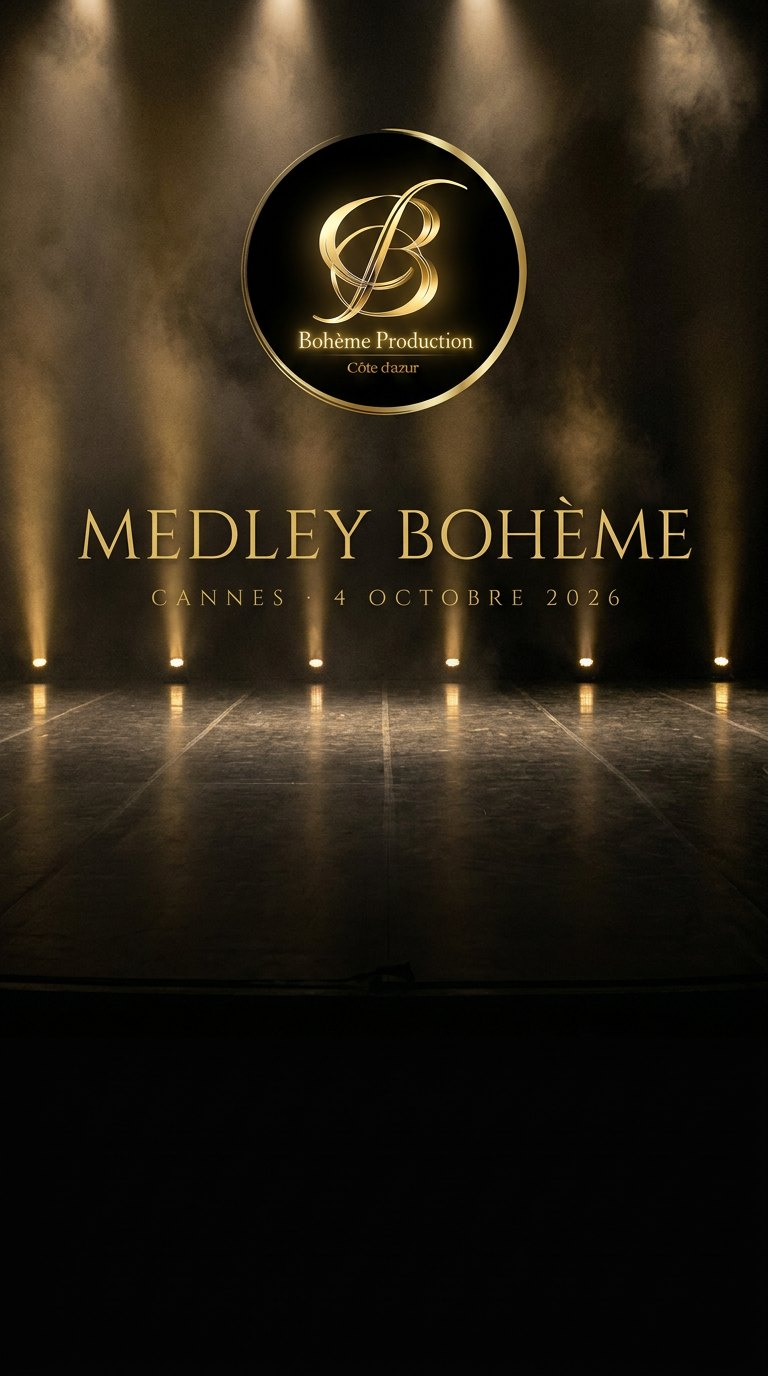
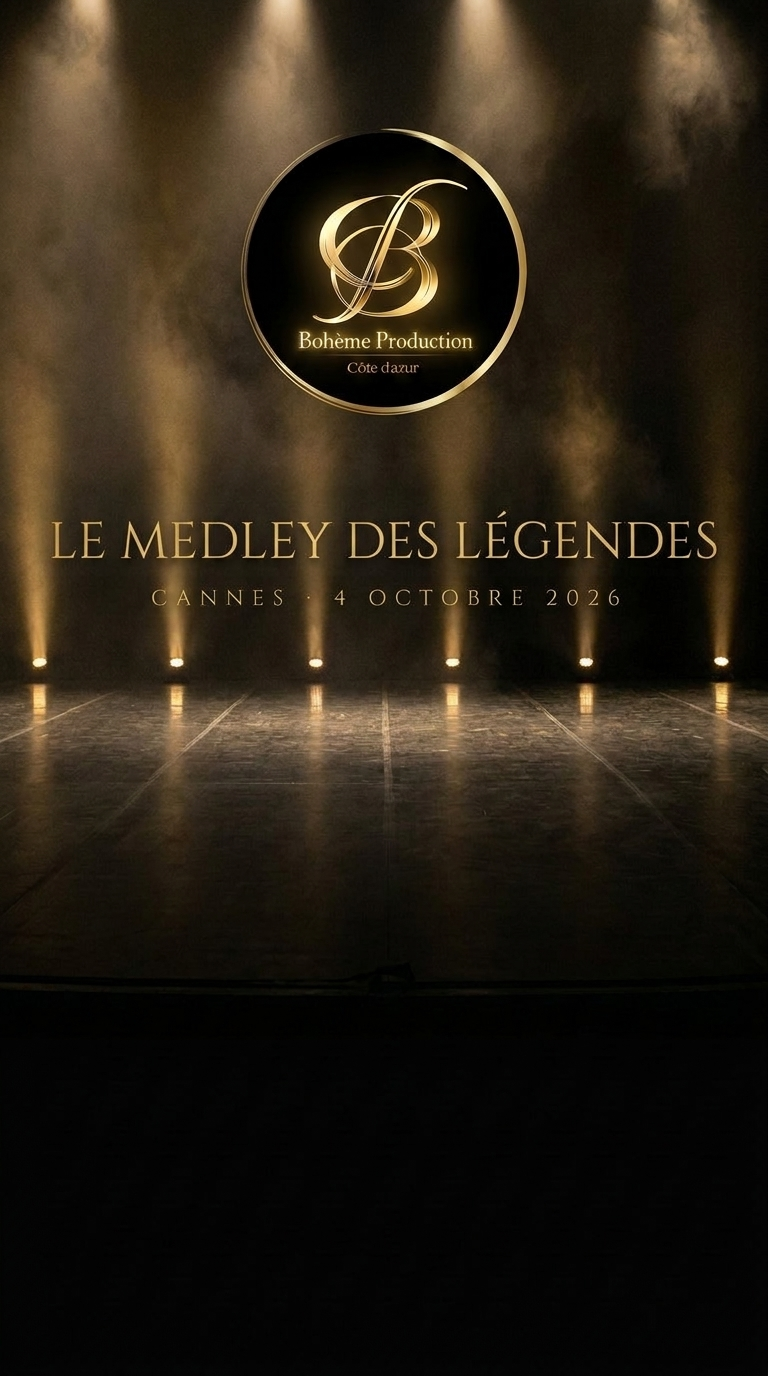
L'image d'ouverture porte enfin « LE MEDLEY DES LEGENDES »
Les deux versions (paysage et verticale) refaites dans Flow avec Nano Banana Pro, a
partir des images existantes : seul le texte grave change, tout le reste est identique
— medaillon, six douches de lumiere, fumee, reflets sur le plancher, cadrage, couleurs.
L'accent du E de LEGENDES est bien la, sur les deux.

Les anciennes sont rangees dans site-images\_avant-legendes\.

⚠ Piege Flow, note au passage : le premier essai a utilise une autre image du projet
comme reference (une scene de Romeo et Juliette), parce qu'un clic programme en
JavaScript n'enregistre PAS la selection dans ce menu — il faut un vrai clic, et
VERIFIER l'image attachee (en la telechargeant) avant de lancer.

Changed region(s): [[0.0625, 0.3438, 0.9375, 0.4062], [0.4688, 0.1875, 0.5, 0.2188]]

diff --git a/5 - Site web/PROMPTS — image d'ouverture et portraits animés.md b/5 - Site web/PROMPTS — image d'ouverture et portraits animés.md
@@ -1,0 +1,85 @@
+# LES PROMPTS — l'image d'ouverture, et les portraits animés
+
+*10 septembre 2026, au soir.*
+
+---
+
+## 1. L'IMAGE D'OUVERTURE DU SITE — « MEDLEY BOHÈME » devient « LE MEDLEY DES LÉGENDES »
+
+**Deux images à refaire**, l'horizontale et la verticale. Le site en choisit une selon la
+façon dont on tient le téléphone.
+
+| Fichier | Format | Ce qu'il faut y lire |
+|---|---|---|
+| `site-images\01-scene.jpg` | 1382 × 768 (paysage) | LE MEDLEY DES LÉGENDES · CANNES · 4 OCTOBRE 2026 |
+| `site-images\01-scene-portrait.jpg` | 768 × 1382 (portrait) | idem |
+
+**Méthode : on redonne l'image existante à Nano Banana et on ne change QUE le texte.**
+Le décor, les six douches de lumière, la fumée, le plancher, le médaillon doré : tout
+doit rester **identique au pixel près**. C'est le principe des retouches Nano Banana —
+on décrit ce qui change, et on interdit explicitement le reste.
+
+### Prompt (à coller dans Flow, avec l'image de départ déposée)
+
+```
+Keep this image exactly as it is. Change ONLY the engraved golden text at the bottom.
+
+Replace the words "MEDLEY BOHÈME" with "LE MEDLEY DES LÉGENDES", in the SAME elegant
+golden serif capitals, the SAME warm gold colour, the SAME soft glow and the SAME
+engraved-on-the-stage-floor look. Keep the line below unchanged: "CANNES · 4 OCTOBRE 2026".
+
+Because the new title is longer, set it slightly smaller so it fits comfortably on one
+single line, perfectly centred, with the same margins on both sides. Keep the accent on
+the É of LÉGENDES.
+
+Do NOT change anything else: the golden circular Bohème Production medallion and its
+text stay exactly the same, the six warm spotlight beams stay the same, the haze, the
+reflections on the wooden stage floor, the black curtains, the framing and the colours
+all stay identical. Photorealistic, cinematic, warm gold on deep black.
+```
+
+**Le piège à surveiller :** l'accent de **LÉGENDES**. Les modèles d'image le mangent une
+fois sur deux. Si l'image revient avec « LEGENDES », relancer en ajoutant en fin de
+prompt : `The É in LÉGENDES must carry its acute accent.`
+
+---
+
+## 2. LES PORTRAITS ANIMÉS — « à la Harry Potter »
+
+*Un plaisir, pas une urgence. Les photos vivantes du journal des sorciers : ils respirent,
+ils clignent des yeux, ils sourient, et ça recommence sans fin.*
+
+Photos de départ : `site-assets\adrien.jpg`, `stephanie.jpg`, `candice.jpg`,
+`mickael.jpg`, `bry.jpg`, `elie.jpg`.
+
+### Le prompt Kling (image → vidéo, 5 s, un par chanteur)
+
+```
+The person stays exactly where they are, framed the same way, looking at the camera.
+Subtle living-portrait motion only: they breathe slowly, their chest rises once and
+falls, they blink twice at a natural pace, a soft warm smile grows and settles, and a
+strand of hair moves very slightly as if from a faint draught. Their head turns no more
+than two or three degrees, then returns to the starting position.
+
+The camera does not move at all. No zoom, no pan, no cut. The background stays perfectly
+still. Lighting stays warm and unchanged throughout.
+
+The last frame must match the first frame as closely as possible, so the clip can loop
+seamlessly.
+```
+
+**Pourquoi ce prompt est écrit comme ça :**
+- **des actions, pas une ambiance** — chaque geste est nommé et minuté, sinon l'IA invente ;
+- **le retour à la position de départ**, sinon la boucle saute visiblement toutes les 5 s ;
+- **la caméra immobile** : dès qu'elle bouge, ce n'est plus un portrait, c'est un plan ;
+- **deux clignements** : un seul passe inaperçu, trois font un tic.
+
+### La page journal, si tu veux aller au bout
+
+L'idée est belle et elle est faisable : une page « **La Gazette du Medley** » — fond
+papier vieilli, gros titre, colonnes de texte serrées, et **les six portraits animés
+encadrés dedans**, chacun avec son nom en légende. Sur téléphone, on fait défiler le
+journal et les visages bougent au passage.
+
+Techniquement c'est simple : les vidéos remplacent les photos, en lecture automatique,
+muettes, en boucle. **À faire après le 4 octobre**, ou un soir où tout le reste est prêt.
